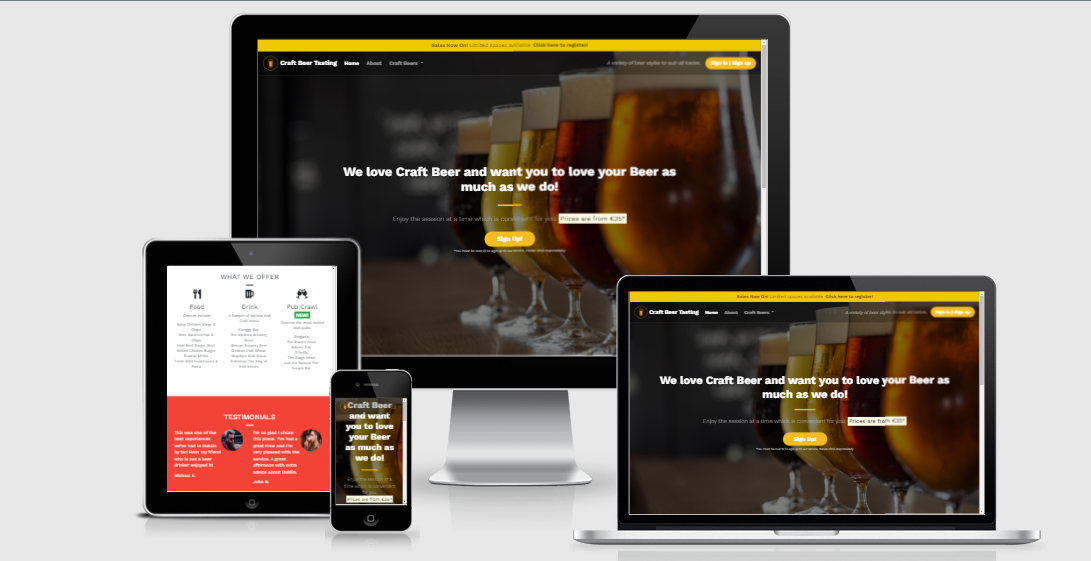
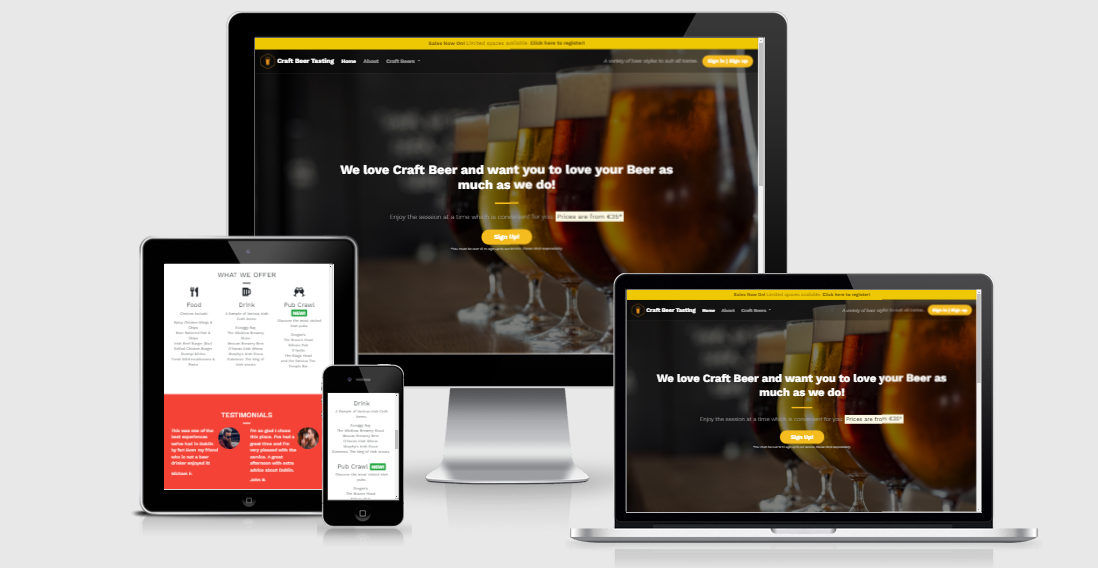
Update mockup image in the README.md

Changed region(s): [[0.1247, 0.0, 0.9661, 1.0]]

diff --git a/README.md b/README.md
@@ -1,3 +1,5 @@
-# Craft beer tasting experience
+# Craft Beer Tasting Experience
+
+## A unique Irish experience
 
 ![Mockup](./documents/readme-images/mockup.png)
